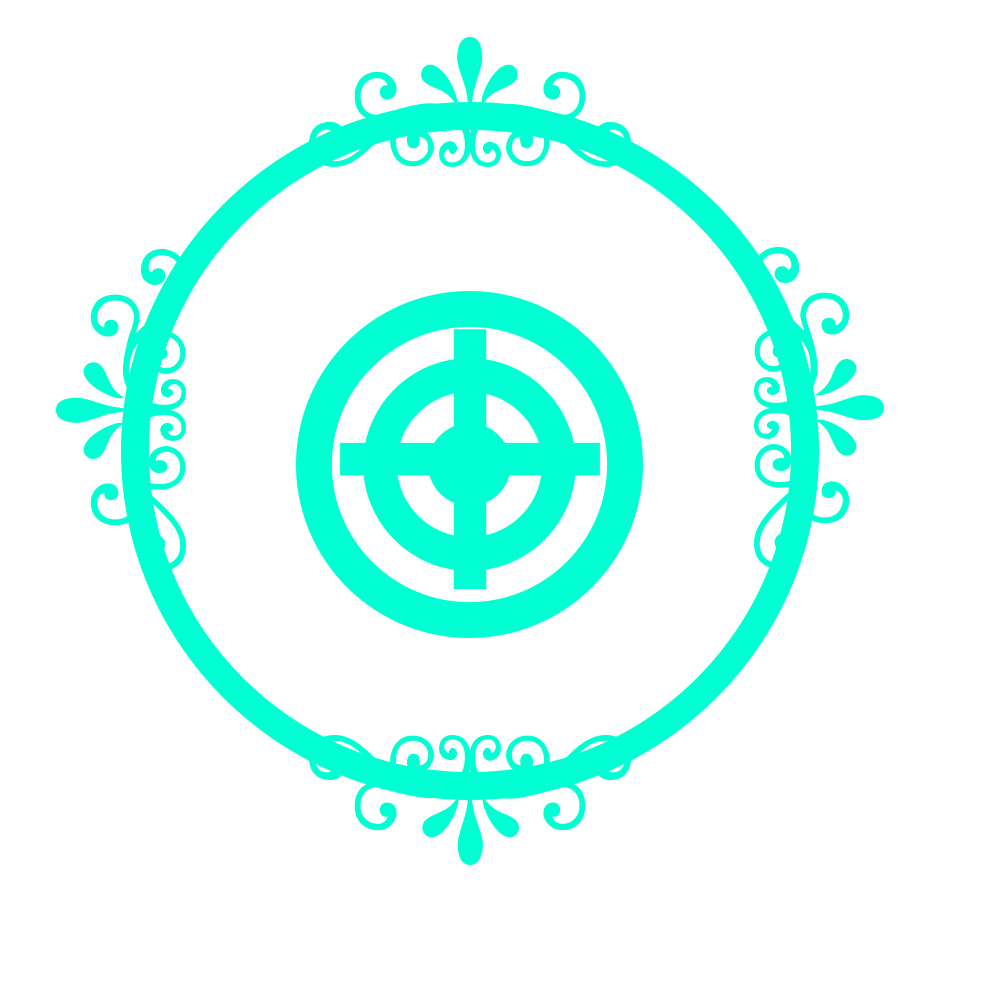
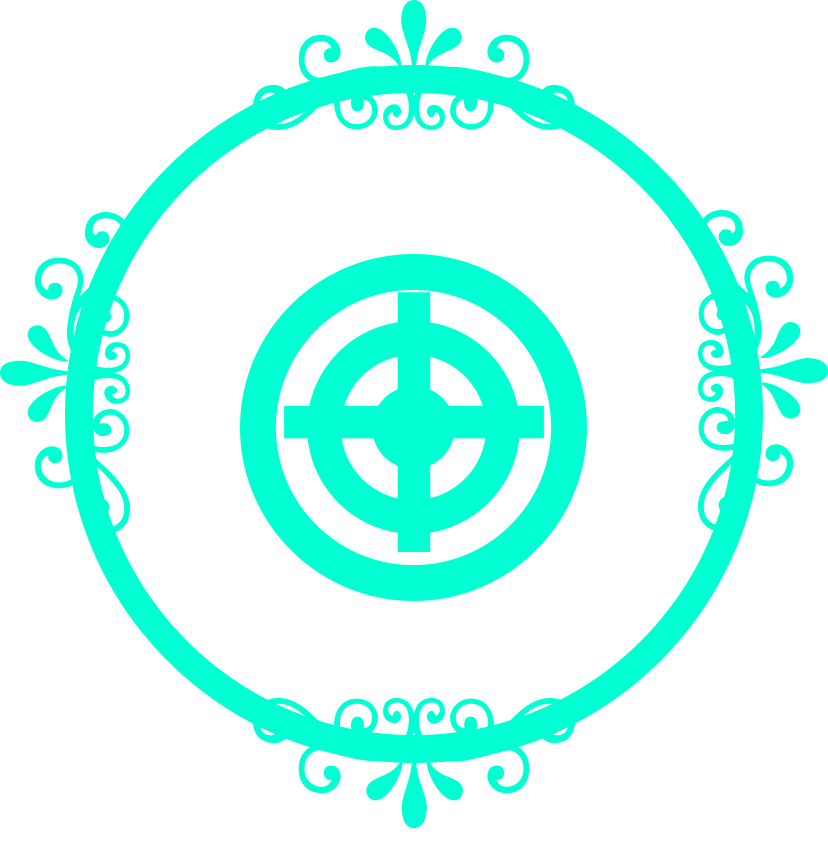
Correccion-shader y mira

Changed region(s): [[0.0, 0.0, 1.0, 0.98]]

diff --git a/Assets/Scripts/CanvasCopyCamaraRot.cs b/Assets/Scripts/CanvasCopyCamaraRot.cs
@@ -1,0 +1,11 @@
+using System.Collections;
+using System.Collections.Generic;
+using UnityEngine;
+
+public class CanvasCopyCamaraRot : MonoBehaviour
+{
+	private void Start()
+	{
+		transform.forward = Camera.main.transform.forward;
+	}
+}
